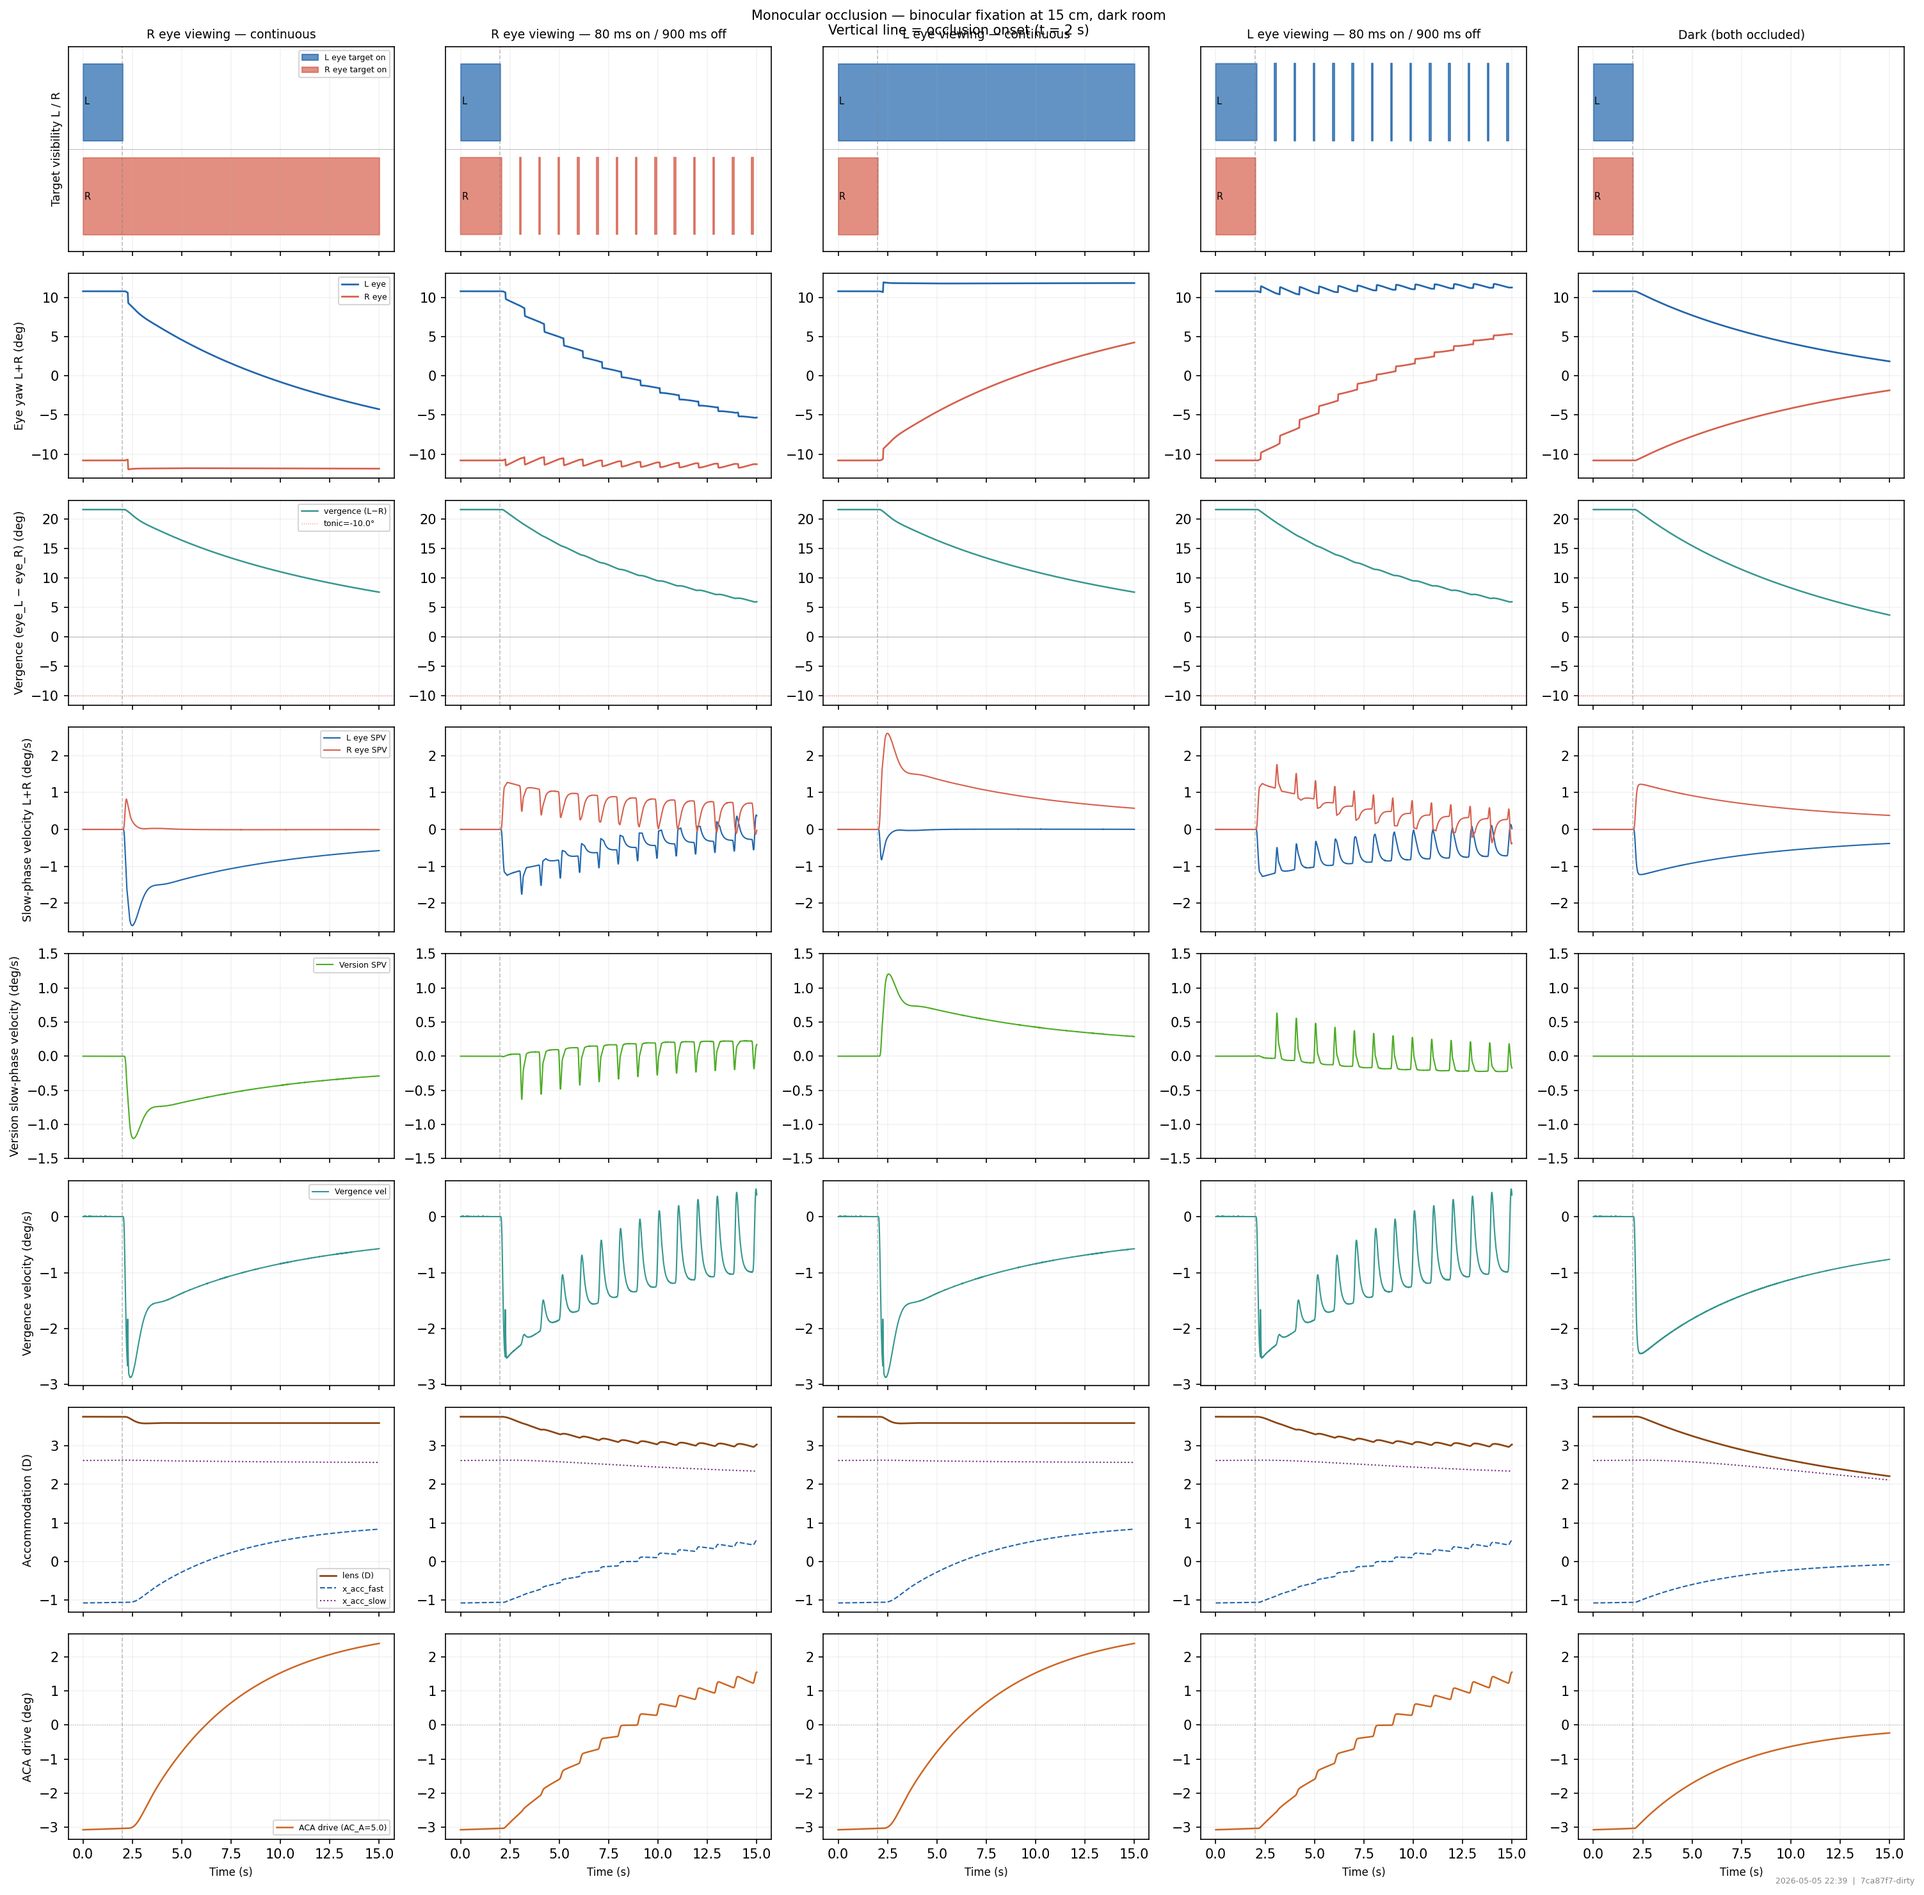
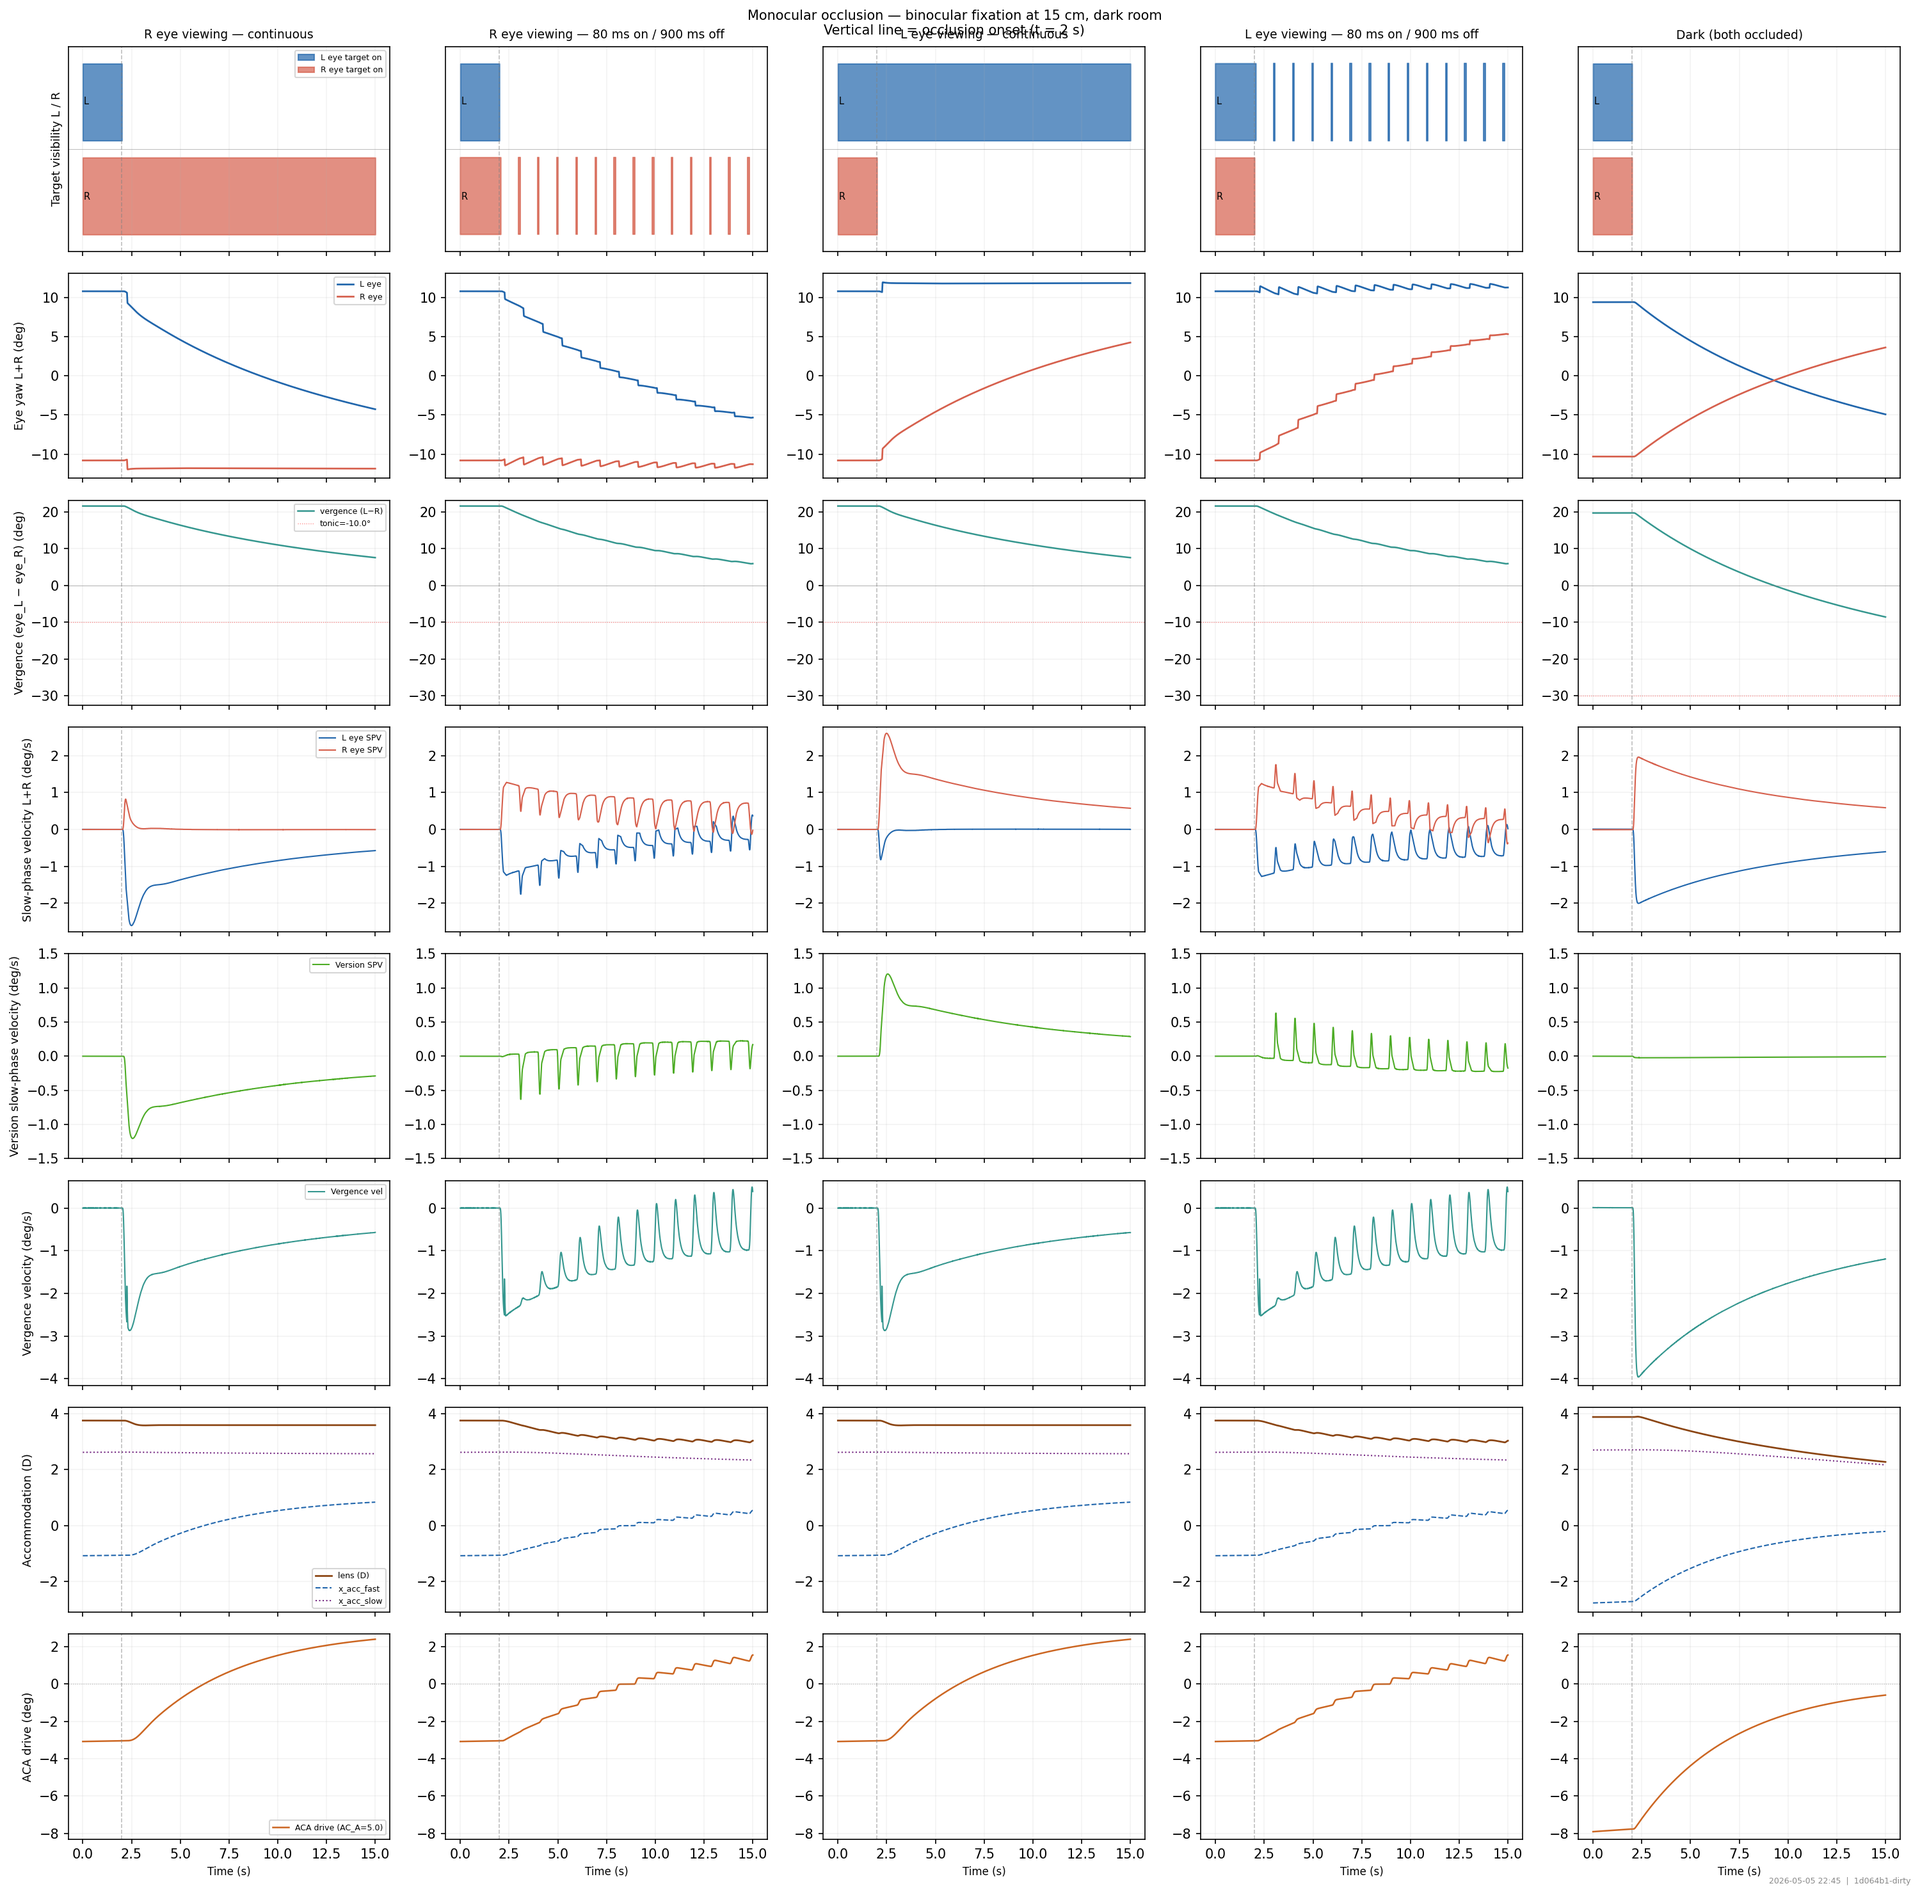
before cerebellum

diff --git a/docs/experiments/index.html b/docs/experiments/index.html
@@ -52,14 +52,15 @@ h1   { font-size: 22px; margin-bottom: 4px; }
     <a href="../parameters.html">Parameters</a>
     <div style="border-top:1px solid #2a2a4e;margin:10px 0 8px;"></div>
     <h2>Experiments</h2>
-    <a href="#monocular_occlusion">Monocular occlusion</a>
+    <a href="#monocular_occlusion_—_from_divergence">Monocular occlusion — from divergence</a>
+    <a href="#monocular_occlusion_—_from_convergence">Monocular occlusion — from convergence</a>
     <a href="#fixation_drift_quiver_—_noise_on_vs_off">Fixation Drift Quiver — noise on vs off</a>
   </nav>
   <main>
     <h1>OculomotorJax — Experiments</h1>
     <p class="meta">
-      Generated: <strong>2026-05-05 22:37</strong> &nbsp;|&nbsp;
-      Version: <strong>7ca87f7-dirty</strong>
+      Generated: <strong>2026-05-05 22:57</strong> &nbsp;|&nbsp;
+      Version: <strong>1d064b1-dirty</strong>
     </p>
     <section class="section">
       <h2>Experimental</h2>
@@ -67,10 +68,19 @@ h1   { font-size: 22px; margin-bottom: 4px; }
       <div class="fig-grid">
         
     <div class="fig-card">
-      <a href="figures/occlusion.png" target="_blank"><img src="figures/occlusion.png" alt="Monocular occlusion"></a>
-      <h3>Monocular occlusion</h3>
-      <p class="desc">Binocular fixation at 15 cm under dark, strobed, and continuous monocular viewing.</p>
-      <div class="expected"><strong>Expected behavior</strong>Both eyes maintain stable vergence during binocular phase. After occlusion: dark → slow drift, strobed → position hold without velocity, continuous → stable monocular fixation.</div>
+      <a href="figures/occlusion_from_divergence.png" target="_blank"><img src="figures/occlusion_from_divergence.png" alt="Monocular occlusion — from divergence"></a>
+      <h3>Monocular occlusion — from divergence</h3>
+      <p class="desc">Near binocular fixation (15 cm) with +3 D plus lens; resting tonic vergence -10° (divergent), dark drift to -30°.</p>
+      <div class="expected"><strong>Expected behavior</strong>Resting posture is divergent. Continuous monocular viewing holds vergence near 0; flashing → drift toward tonic; dark → eyes diverge to ~-30°.</div>
+      <p class="citation">&#128214; Typical clinical dissociated nystagmus / monocular occlusion paradigm</p>
+      <span class="badge behavior">behavior</span>
+    </div>
+
+    <div class="fig-card">
+      <a href="figures/occlusion_from_convergence.png" target="_blank"><img src="figures/occlusion_from_convergence.png" alt="Monocular occlusion — from convergence"></a>
+      <h3>Monocular occlusion — from convergence</h3>
+      <p class="desc">Far binocular fixation (10 m) with -2 D minus lens; resting tonic vergence +15° (convergent), dark drift to +25°.</p>
+      <div class="expected"><strong>Expected behavior</strong>Resting posture is convergent. Continuous monocular viewing holds vergence near 0; flashing → drift toward tonic; dark → eyes converge to ~+25°.</div>
       <p class="citation">&#128214; Typical clinical dissociated nystagmus / monocular occlusion paradigm</p>
       <span class="badge behavior">behavior</span>
     </div>

diff --git a/scripts/bench_experiments.py b/scripts/bench_experiments.py
@@ -31,24 +31,14 @@ from oculomotor.analysis import extract_spv_states
 
 SHOW  = '--show' in sys.argv
 DT    = 0.001
-THETA = with_brain(
-    with_sensory(PARAMS_DEFAULT, sigma_canal=0.0, sigma_pos=0.0, sigma_vel=0.0),
-    sigma_acc=0.0,
-    tonic_verg=-10.0,  # tonic (resting) vergence baseline (deg); negative = divergent dark vergence
-)  # noiseless — deterministic
-
-# +3 D plus (converging) lens in front of both eyes — accommodation demand for
-# the 15 cm target drops from 6.67 D to 3.67 D (apparent distance ~27 cm),
-# while vergence demand stays geometric. Model sign convention is opposite to
-# clinical: lens<0 = plus lens (see bench_clinical.py).
-_LENS_D = -3.0
+_THETA_BASE = with_sensory(PARAMS_DEFAULT, sigma_canal=0.0, sigma_pos=0.0, sigma_vel=0.0)
+_THETA_BASE = with_brain(_THETA_BASE, sigma_acc=0.0)   # noiseless — deterministic
 
 
 # ── Monocular occlusion ────────────────────────────────────────────────────────
 
 _T_END  = 15.0
 _T_FIX  = 2.0       # binocular fixation period before occlusion onset (s)
-_DIST_M = 0.15      # target distance (m) — straight ahead, 15 cm
 
 _CFG = SimConfig(warmup_s=30.0)   # 5 × tau_verg → vergence fully settled
 
@@ -88,14 +78,17 @@ def _make_flags(t_np, cond, occ_eye):
     return tL, tR, no_strobe
 
 
-def _run_cond(t_np, cond, occ_eye):
+def _run_cond(t_np, cond, occ_eye, *, theta_base, dist_m, lens_d, dark_tonic_verg):
     t  = jnp.array(t_np)
     T  = len(t_np)
-    pt = jnp.tile(jnp.array([0.0, 0.0, _DIST_M]), (T, 1))
+    pt = jnp.tile(jnp.array([0.0, 0.0, dist_m]), (T, 1))
     tL, tR, ts = _make_flags(t_np, cond, occ_eye)
-    lens_arr = jnp.full((T,), _LENS_D, dtype=jnp.float32)
+    lens_arr = jnp.full((T,), lens_d, dtype=jnp.float32)
+    # Dark condition: per-experiment override of tonic vergence to test how far
+    # the eyes drift when nothing constrains them.
+    theta = with_brain(theta_base, tonic_verg=dark_tonic_verg) if cond == 'dark' else theta_base
     return simulate(
-        THETA, t,
+        theta, t,
         target                 = build_target(t, lin_pos=pt),
         scene_present_array    = jnp.zeros(T),
         target_present_L_array = jnp.array(tL),
@@ -108,7 +101,8 @@ def _run_cond(t_np, cond, occ_eye):
     )
 
 
-def _occlusion(show):
+def _occlusion(show, *, save_name, plot_title, dist_m, lens_d, theta_base, dark_tonic_verg,
+               description, expected):
     t_np = np.arange(0.0, _T_END, DT, dtype=np.float32)
 
     # Five columns by viewing-eye + condition.
@@ -124,15 +118,24 @@ def _occlusion(show):
         ('L eye viewing — 80 ms on / 900 ms off', 'pulsed',     'right'),
         ('Dark (both occluded)',                  'dark',       'left'),
     ]
-    sims = [_run_cond(t_np, c, o) for _, c, o in columns]
+    sims = [_run_cond(t_np, c, o, theta_base=theta_base, dist_m=dist_m,
+                      lens_d=lens_d, dark_tonic_verg=dark_tonic_verg)
+            for _, c, o in columns]
     # Recover the per-column visibility flags for the top row of the figure.
     flag_arrays = [_make_flags(t_np, c, o) for _, c, o in columns]
+
+    # Pretty distance label: cm for near targets, m for far ones.
+    dist_label = f'{dist_m*100:.0f} cm' if dist_m < 1.0 else f'{dist_m:.0f} m'
+    lens_clinical = -lens_d   # model sign opposite to clinical
+    lens_label = f'{lens_clinical:+.1f} D'
 
     N_COLS = len(columns)
     N_ROWS = 8
     fig, axes = plt.subplots(N_ROWS, N_COLS, figsize=(4 * N_COLS, 20), sharex=True)
     fig.suptitle(
-        f'Monocular occlusion — binocular fixation at 15 cm, dark room\n'
+        f'{plot_title} — fixation at {dist_label}, {lens_label} lens, '
+        f'tonic vergence {theta_base.brain.tonic_verg:+.0f}°  '
+        f'(dark: {dark_tonic_verg:+.0f}°)\n'
         f'Vertical line = occlusion onset (t = {_T_FIX:.0f} s)',
         fontsize=10,
     )
@@ -171,7 +174,7 @@ def _occlusion(show):
         acc_fast  = acc_brain[:, 0]
         acc_slow  = acc_brain[:, 1]
         # ACA drive in deg: AC_A (pd/D) × 0.5729 (deg/pd) × x_acc_fast (D)
-        aca_drive = float(THETA.brain.AC_A) * 0.5729 * acc_fast
+        aca_drive = float(theta_base.brain.AC_A) * 0.5729 * acc_fast
 
         # Row 0: target visibility per eye as colored patches (L on top, R on bottom)
         tL_flag, tR_flag, _ts = flag_arrays[ci]
@@ -195,8 +198,10 @@ def _occlusion(show):
         axes[2, ci].plot(t_np, verg_angle, color=utils.C.get('vs', '#8B4513'),
                          lw=1.2, label='vergence (L−R)')
         axes[2, ci].axhline(0, color='gray', lw=0.5, alpha=0.5)
-        axes[2, ci].axhline(THETA.brain.tonic_verg, color='red', lw=0.6, ls=':',
-                             alpha=0.5, label=f'tonic={THETA.brain.tonic_verg:.1f}°')
+        # tonic_verg is per-column: dark uses dark_tonic_verg, others use theta_base's
+        col_tonic = dark_tonic_verg if _cond == 'dark' else float(theta_base.brain.tonic_verg)
+        axes[2, ci].axhline(col_tonic, color='red', lw=0.6, ls=':',
+                             alpha=0.5, label=f'tonic={col_tonic:.1f}°')
 
         # Row 3: per-eye slow-phase velocity
         axes[3, ci].plot(t_np, spv_L_yaw, color=C_L, lw=1.0, label='L eye SPV')
@@ -219,7 +224,7 @@ def _occlusion(show):
 
         # Row 7: ACA drive (deg) — AC_A · 0.5729 · x_acc_fast
         axes[7, ci].plot(t_np, aca_drive, color='#cc6622', lw=1.2,
-                          label=f'ACA drive (AC_A={THETA.brain.AC_A:.1f})')
+                          label=f'ACA drive (AC_A={theta_base.brain.AC_A:.1f})')
         axes[7, ci].axhline(0, color='gray', lw=0.6, ls=':', alpha=0.5)
 
         for row in range(N_ROWS):
@@ -243,16 +248,50 @@ def _occlusion(show):
             axes[row, ci].set_ylim(mid - span / 2, mid + span / 2)
 
     fig.tight_layout()
-    path, rp = utils.save_fig(fig, 'occlusion', show=show,
+    path, rp = utils.save_fig(fig, save_name, show=show,
                               figs_dir=utils.EXPT_FIGS_DIR, base_dir=utils.EXPT_DIR)
     return utils.fig_meta(
         path, rp,
-        title='Monocular occlusion',
-        description='Binocular fixation at 15 cm under dark, strobed, and continuous monocular viewing.',
-        expected='Both eyes maintain stable vergence during binocular phase. '
-                 'After occlusion: dark → slow drift, strobed → position hold without velocity, '
-                 'continuous → stable monocular fixation.',
+        title=plot_title,
+        description=description,
+        expected=expected,
         citation='Typical clinical dissociated nystagmus / monocular occlusion paradigm',
+    )
+
+
+# Two flavours: divergent vs convergent resting posture.
+
+def _occlusion_divergence(show):
+    theta = with_brain(_THETA_BASE, tonic_verg=-10.0)
+    return _occlusion(
+        show,
+        save_name='occlusion_from_divergence',
+        plot_title='Monocular occlusion — from divergence',
+        dist_m=0.15,        # 15 cm near target
+        lens_d=-3.0,        # +3 D plus lens (model sign convention is opposite)
+        theta_base=theta,
+        dark_tonic_verg=-30.0,
+        description='Near binocular fixation (15 cm) with +3 D plus lens; resting tonic '
+                    'vergence -10° (divergent), dark drift to -30°.',
+        expected='Resting posture is divergent. Continuous monocular viewing holds vergence '
+                 'near 0; flashing → drift toward tonic; dark → eyes diverge to ~-30°.',
+    )
+
+
+def _occlusion_convergence(show):
+    theta = with_brain(_THETA_BASE, tonic_verg=15.0)
+    return _occlusion(
+        show,
+        save_name='occlusion_from_convergence',
+        plot_title='Monocular occlusion — from convergence',
+        dist_m=10.0,        # 10 m far target
+        lens_d=2.0,         # -2 D minus lens (model sign convention is opposite)
+        theta_base=theta,
+        dark_tonic_verg=25.0,
+        description='Far binocular fixation (10 m) with -2 D minus lens; resting tonic '
+                    'vergence +15° (convergent), dark drift to +25°.',
+        expected='Resting posture is convergent. Continuous monocular viewing holds vergence '
+                 'near 0; flashing → drift toward tonic; dark → eyes converge to ~+25°.',
     )
 
 
@@ -401,9 +440,11 @@ SECTION = dict(
 def run(show=False):
     print('\n=== Experiments ===')
     figs = []
-    print('  1/2  monocular occlusion …')
-    figs.append(_occlusion(show))
-    print('  2/2  fixation drift quiver across visual field …')
+    print('  1/3  monocular occlusion — from divergence …')
+    figs.append(_occlusion_divergence(show))
+    print('  2/3  monocular occlusion — from convergence …')
+    figs.append(_occlusion_convergence(show))
+    print('  3/3  fixation drift quiver across visual field …')
     figs.append(_drift_quiver(show))
     return figs
 
